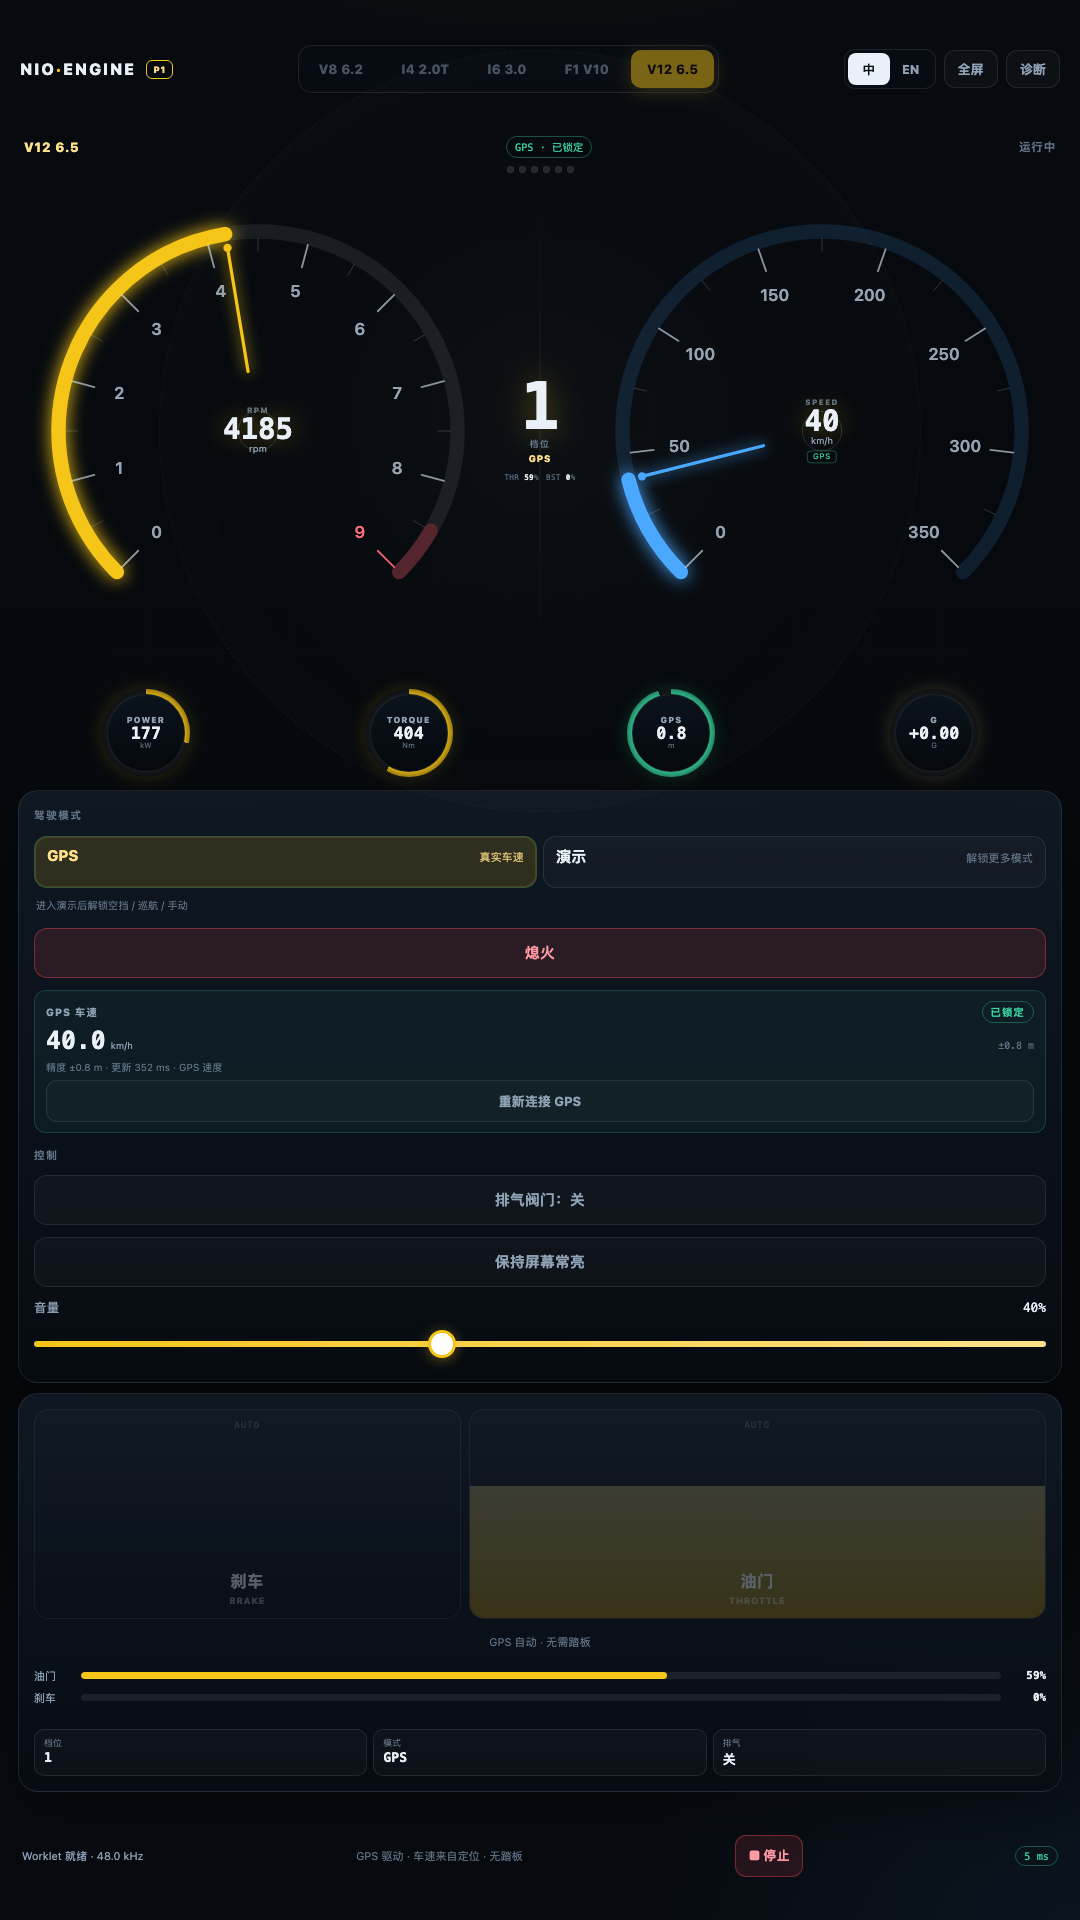
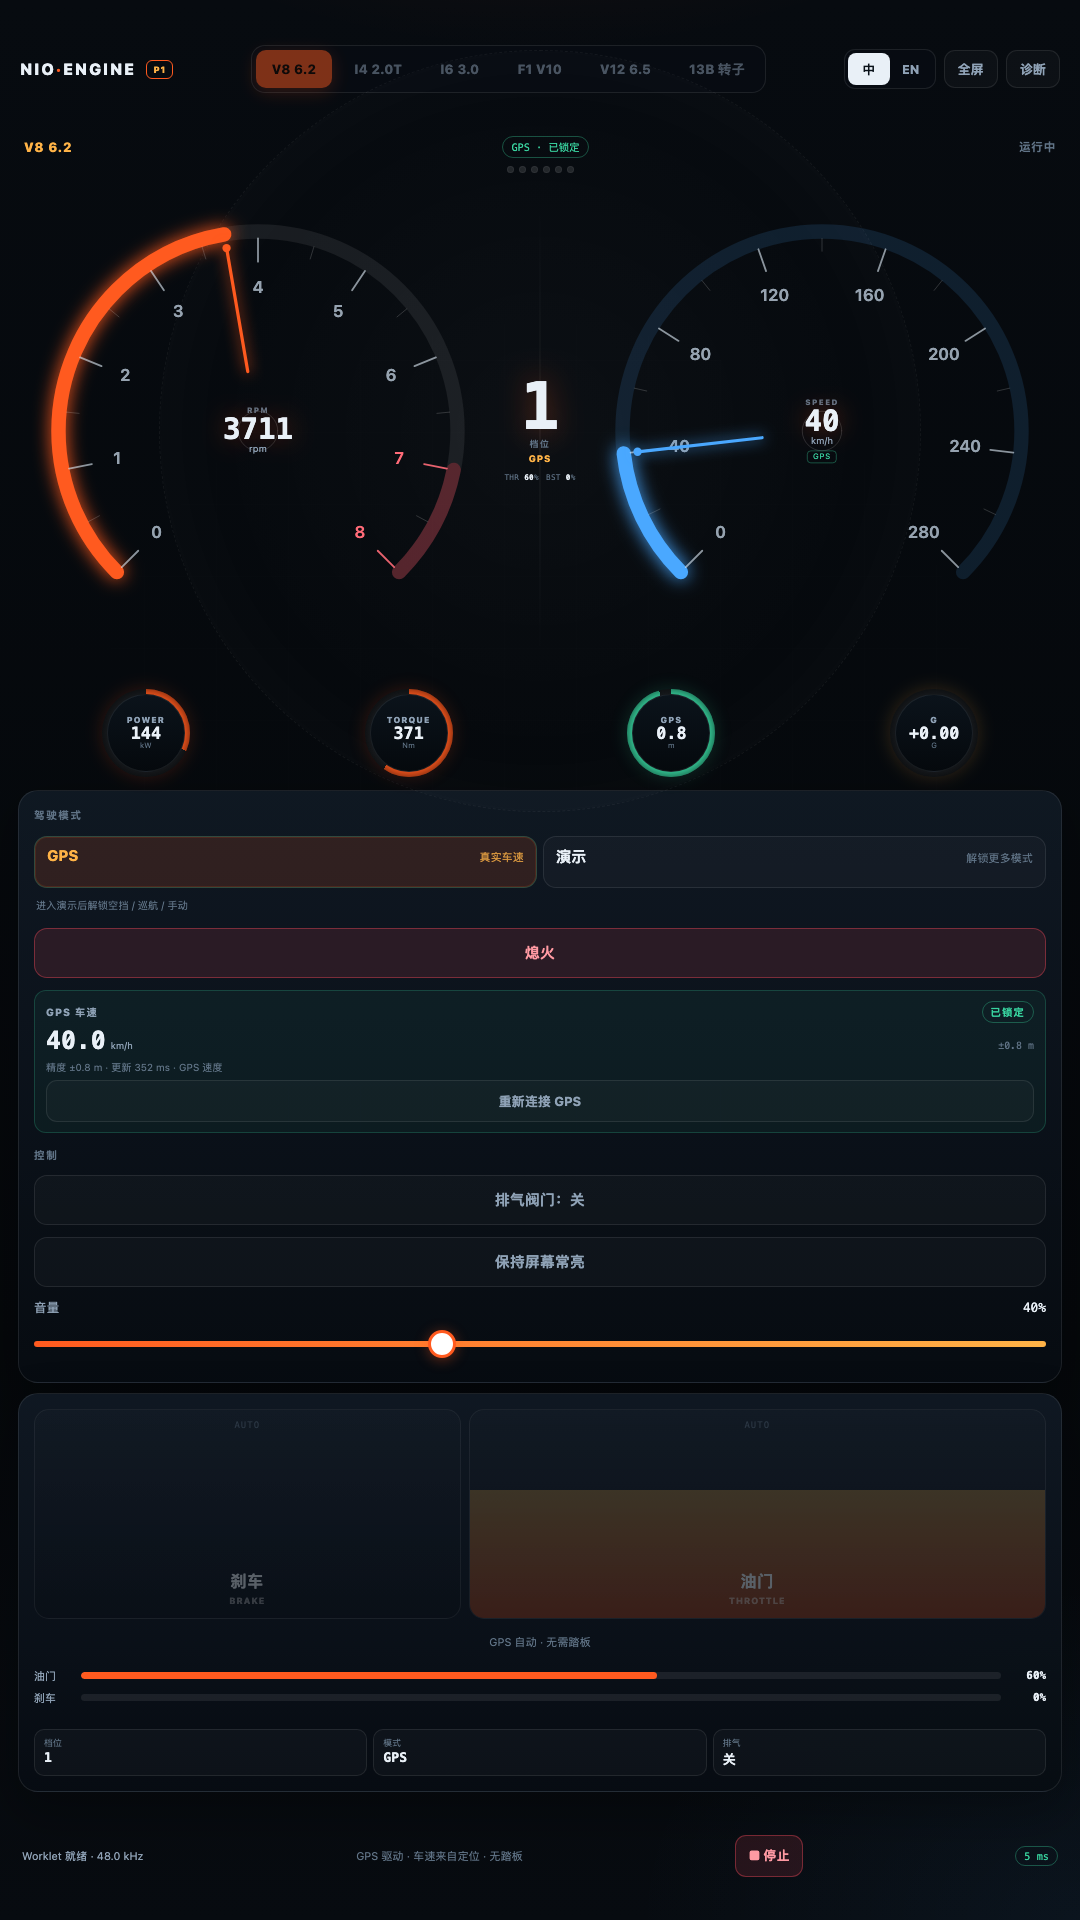
add 13b engine

diff --git a/p1/i18n.js b/p1/i18n.js
@@ -80,7 +80,7 @@
 
       "overlay.eyebrow": "P1 · ENGINE SOUND",
       "overlay.title": "让车机发出属于你的声浪",
-      "overlay.body": "默认 GPS 驱动：用真实车速 + 加速度驱动声浪。进入演示模式可解锁空挡 / 巡航 / 手动；定位权限按需请求，默认不上传任何内容。",
+      "overlay.body": "默认 GPS 驱动：用真实车速 + 加速度驱动声浪。六种发动机，进入演示模式可解锁空挡 / 巡航 / 手动；定位权限按需请求，默认不上传任何内容。",
       "overlay.choose": "选择声浪",
       "overlay.start": "启动发动机",
       "overlay.startGps": "启动 GPS 声浪",
@@ -105,6 +105,9 @@
       "preset.v12.name": "V12 6.5",
       "preset.v12.desc": "兰博基尼自吸 V12 · 高转咆哮 · 十二缸",
       "preset.v12.char": "LAMBORGHINI V12",
+      "preset.rotary.name": "13B 转子",
+      "preset.rotary.desc": "双转子 · 双涡轮 · 9000 rpm 高频嘶鸣",
+      "preset.rotary.char": "ROTARY TWIN-TURBO",
 
       "toast.engineStarted": "发动机已启动",
       "toast.engineStopped": "发动机已熄火",
@@ -270,7 +273,7 @@
 
       "overlay.eyebrow": "P1 · ENGINE SOUND",
       "overlay.title": "Give the cockpit a voice",
-      "overlay.body": "GPS drive by default: real speed and acceleration drive the sound. Demo mode unlocks Neutral / Cruise / Manual. Location is requested only as needed and is never uploaded.",
+      "overlay.body": "GPS drive by default: real speed and acceleration drive the sound. Six engines, and Demo mode unlocks Neutral / Cruise / Manual. Location is requested only as needed and is never uploaded.",
       "overlay.choose": "Choose a sound",
       "overlay.start": "Start engine",
       "overlay.startGps": "Start GPS sound",
@@ -295,6 +298,9 @@
       "preset.v12.name": "V12 6.5",
       "preset.v12.desc": "Lamborghini naturally aspirated V12 · high-rev howl",
       "preset.v12.char": "LAMBORGHINI V12",
+      "preset.rotary.name": "13B ROTARY",
+      "preset.rotary.desc": "2-rotor twin-turbo · 9000 rpm high-frequency scream",
+      "preset.rotary.char": "ROTARY TWIN-TURBO",
 
       "toast.engineStarted": "Engine started",
       "toast.engineStopped": "Engine stopped",

diff --git a/p1/app.js b/p1/app.js
@@ -204,6 +204,44 @@
         rolling: 0.012,
         topKmh: 350
       }
+    },
+    rotary: {
+      id: "rotary",
+      nameKey: "preset.rotary.name",
+      descKey: "preset.rotary.desc",
+      charKey: "preset.rotary.char",
+      accent: "#a66cff",
+      accent2: "#65f2ff",
+      cylinders: 4,
+      offsets: [0, 180, 360, 540],
+      banks: [0, 1, 0, 1],
+      idle: 900,
+      redline: 8000,
+      limiter: 8300,
+      maxRpm: 9000,
+      res: [[620, 1350, 2800], [680, 1500, 3100]],
+      decay: 0.022,
+      pulseGain: 0.095,
+      click: 0.16,
+      subRatio: 0.5,
+      subGain: 0.014,
+      intakeGain: 1.15,
+      crackle: 1.4,
+      turbo: true,
+      drive: {
+        gears: [3.4, 2.1, 1.5, 1.15, 0.9, 0.75],
+        final: 3.9,
+        mass: 1280,
+        wheelR: 0.31,
+        torque: 330,
+        torqueRpm: 4500,
+        shiftUp: 7800,
+        shiftDown: 2800,
+        launchRpm: 4000,
+        drag: 0.6,
+        rolling: 0.012,
+        topKmh: 260
+      }
     }
   };
 
@@ -513,7 +551,7 @@
 
   function buildPresetCards() {
     if (!els.presetCards) return;
-    var order = ["v8", "i4", "i6", "f1v10", "v12"];
+    var order = ["v8", "i4", "i6", "f1v10", "v12", "rotary"];
     var nodes = [];
     for (var i = 0; i < order.length; i++) {
       (function (id) {

diff --git a/p1/index.html b/p1/index.html
@@ -20,6 +20,7 @@
         <button type="button" data-preset="i6">I6 3.0</button>
         <button type="button" data-preset="f1v10">F1 V10</button>
         <button type="button" data-preset="v12">V12 6.5</button>
+        <button type="button" data-preset="rotary">13B 转子</button>
       </nav>
       <div class="top-actions">
         <div class="lang-switch" role="group" aria-label="Language">

diff --git a/p1/README.md b/p1/README.md
@@ -1,6 +1,6 @@
 # nioengine P1 · 车机模拟声浪
 
-P1 是面向车机浏览器的**发动机声浪应用**。默认进入 **GPS 驱动**：用真实 GPS 车速 + 速度差分加速度驱动声浪；进入 **演示模式** 后才解锁空挡 / 巡航 / 手动。支持 5 种发动机、自动换挡、涡轮、回火、限转、排气阀门和车厢混响。
+P1 是面向车机浏览器的**发动机声浪应用**。默认进入 **GPS 驱动**：用真实 GPS 车速 + 速度差分加速度驱动声浪；进入 **演示模式** 后才解锁空挡 / 巡航 / 手动。支持 6 种发动机、自动换挡、涡轮、回火、限转、排气阀门和车厢混响。
 
 ![P1 启动页](docs/overlay.png)
 
@@ -21,7 +21,7 @@ npm run build:p1     # 生成 p1/dist/index.html + p1/dist/engine-worklet.js
 npm run serve:p1     # http://127.0.0.1:4174
 ```
 
-P1 版本：`0.6.0`。
+P1 版本：`0.7.0`。
 
 ### 部署
 
@@ -77,7 +77,7 @@ server {
 
 打开页面会看到启动页：
 
-1. 选择声浪：**V8 6.2 / I4 2.0T / I6 3.0 / F1 V10 / V12 6.5**。
+1. 选择声浪：**V8 6.2 / I4 2.0T / I6 3.0 / F1 V10 / V12 6.5 / 13B 转子**。
 2. 点 **启动 GPS 声浪**（页面最大的橙色按钮）：起动机 → 点火 → GPS 模式；按提示允许位置权限。
 3. 只有想用虚拟驾驶时，才点 **演示模式**。进入演示后会解锁 **空挡 / 巡航 / 手动**，并显示“更多模式”。
 4. 停车熄火后，下一次启动会回到默认 **GPS 模式**，其他模式重新隐藏。
@@ -117,7 +117,7 @@ server {
 
 ---
 
-## 五种声浪
+## 六种声浪
 
 | 预设 | 结构 | 特征 |
 |---|---|---|
@@ -126,10 +126,13 @@ server {
 | **I6 3.0** | 6 缸，1-5-3-6-2-4 | 自吸直六、线性、高转绵密 |
 | **F1 V10** | 10 缸 90°，等间隔 72° | 20,000 rpm、无涡轮、高频尖叫、赛车排气 |
 | **V12 6.5** | 12 缸，等间隔 60° | Lamborghini 自吸 V12、高转咆哮、十二缸密度 |
+| **13B 转子** | 2 转子，720° 内 4 个燃烧脉冲 | 双涡轮、9000 rpm、高频转子嘶鸣、收油回火 |
 
 ![F1 V10](docs/p1-f1v10-rev.png)
 
 ![Lamborghini V12](docs/p1-v12-rev.png)
+
+![13B 转子](docs/p1-rotary-rev.png)
 
 运行中不能切换声浪，先“熄火”再换；这是为了避免切换时爆音和参数重置。
 
@@ -137,7 +140,7 @@ server {
 
 ## 音量与增益
 
-0.4.1 修正了车机上的整体音量偏小问题；0.5.0 / 0.6.0 保留该增益与软限幅：
+0.4.1 修正了车机上的整体音量偏小问题；0.5.0 / 0.6.0 / 0.7.0 保留该增益与软限幅：
 
 ```text
 Worklet → EQ → 压缩 → master（音量 × 2.2）→ 软限幅 → analyser → 扬声器
@@ -267,7 +270,7 @@ GPS 约 2 Hz，加速度用 1–2 s 窗口，叠加 P1 的约 98 ms 音频输出
 
 ## 真车测试清单
 
-1. 打开 HTTPS 页面，确认启动页和三个声浪卡片正常；试听 V8 / I4 / I6。
+1. 打开 HTTPS 页面，确认启动页和六个声浪卡片正常；试听 V8 / I4 / I6 / F1 / V12 / 13B。
 2. 启动后先空挡轰油门，确认怠速、拉转、收油回火。
 3. **巡航**：自动加速到 80 km/h，观察换挡和转速；**演示**：完整看 32 秒循环。
 4. **手动**：按住油门/刹车，确认加速、自动升挡、刹车降挡、停车。

diff --git a/README.md b/README.md
@@ -2,7 +2,7 @@
 
 仓库包含三个单文件车机 Web 应用：
 
-- **P1 声浪应用（当前，0.6.0）**：默认 GPS 驱动，演示模式解锁空挡/巡航/手动；5 种发动机、RPM/速度双大表 + 中央档位 + 四联辅助表、自动换挡、涡轮/回火/限转、诊断面板。
+- **P1 声浪应用（当前，0.7.0）**：默认 GPS 驱动，演示模式解锁空挡/巡航/手动；6 种发动机、RPM/速度双大表 + 中央档位 + 四联辅助表、自动换挡、涡轮/回火/限转、诊断面板。
 - **P2.0 传感器探测（上车前）**：验证车机浏览器能否给出 GPS 速度、加速度和姿态；首轮结论是 GPS 可用、IMU 不可用。
 - **P0 能力探测（保留）**：先用真车验证 HTTPS、AudioWorklet、延迟、音频焦点和 10 分钟长稳；结论见 [P0 真车结果](#p0-真车结果两次)。
 
@@ -12,7 +12,7 @@
 
 ![P1 cockpit](p1/docs/cockpit.png)
 
-- **声浪**：V8 6.2 / I4 2.0T / I6 3.0 / F1 V10 / Lamborghini V12 6.5。
+- **声浪**：V8 6.2 / I4 2.0T / I6 3.0 / F1 V10 / Lamborghini V12 6.5 / 13B 转子。
 - **模式**：默认 **GPS**；**演示模式**解锁空挡、巡航 80 km/h、手动踏板；演示自身是 32 秒 0→130→0 循环。
 - **驾驶**：虚拟驾驶自动变速箱；GPS 模式用真实速度 + 1 s/2 s 速度差分加速度驱动档位/负载；含换挡 cut + pop。
 - **声音**：曲轴角点火事件、双排气 bank、共振器、进气噪声、车厢 IR、压缩/限幅。
@@ -343,7 +343,7 @@ dist/              构建产物（已 gitignore）
 
 ## P0 与 P1 的路线
 
-P1 已实现：5 种声浪、虚拟驾驶 / GPS 驱动、自动换挡、车机 cockpit UI、诊断面板、中/英、全屏/常亮。下面是从 P0 到 P1 的原始路线：
+P1 已实现：6 种声浪、虚拟驾驶 / GPS 驱动、自动换挡、双表 cockpit UI、诊断面板、中/英、全屏/常亮。下面是从 P0 到 P1 的原始路线：
 
 1. **P1 发声原型**：曲轴角 / 点火顺序驱动的发动机模型，启动 → 怠速 → 轰油门。
 2. **P2.0 传感器探测**：先验证车机浏览器能不能给出 GPS 速度、加速度和姿态。
